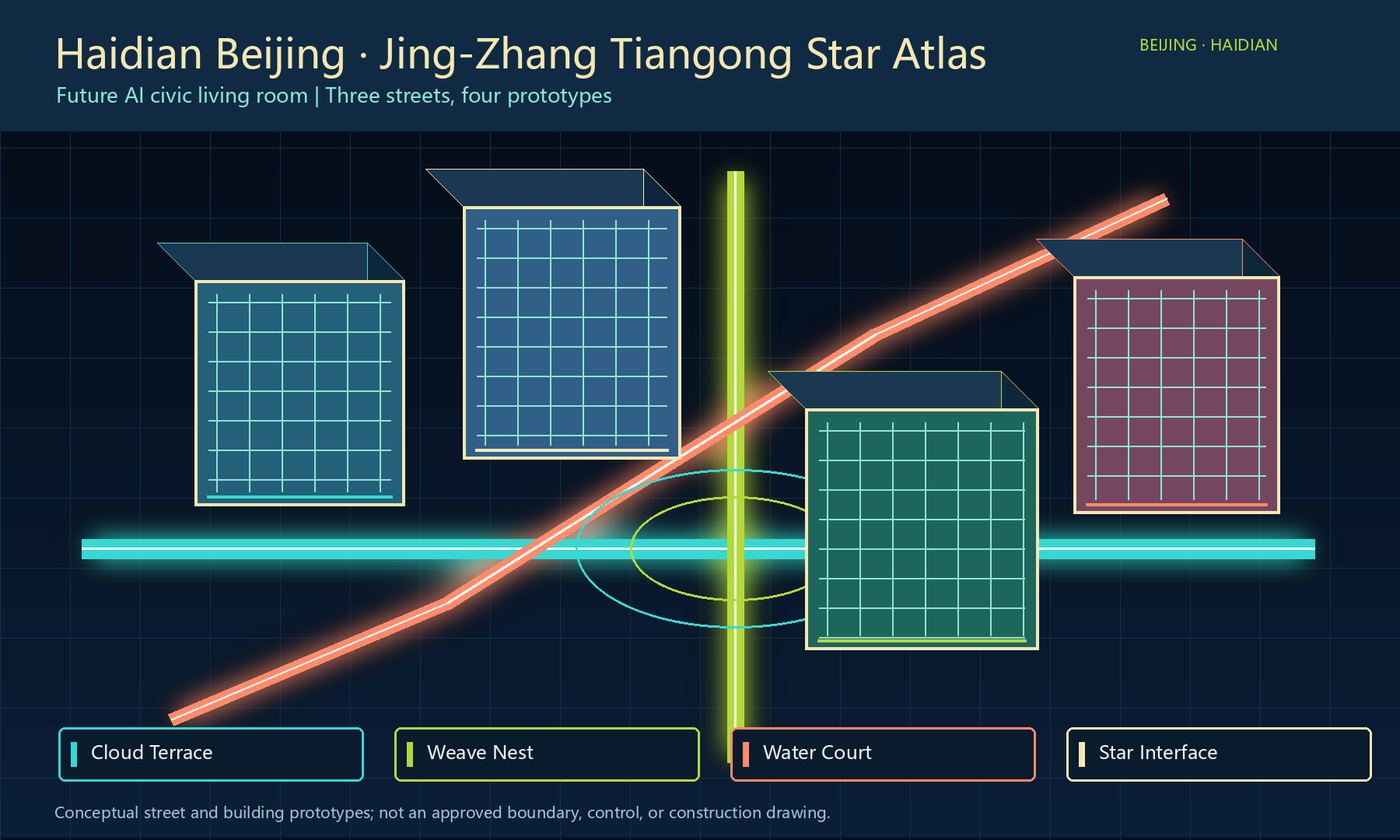
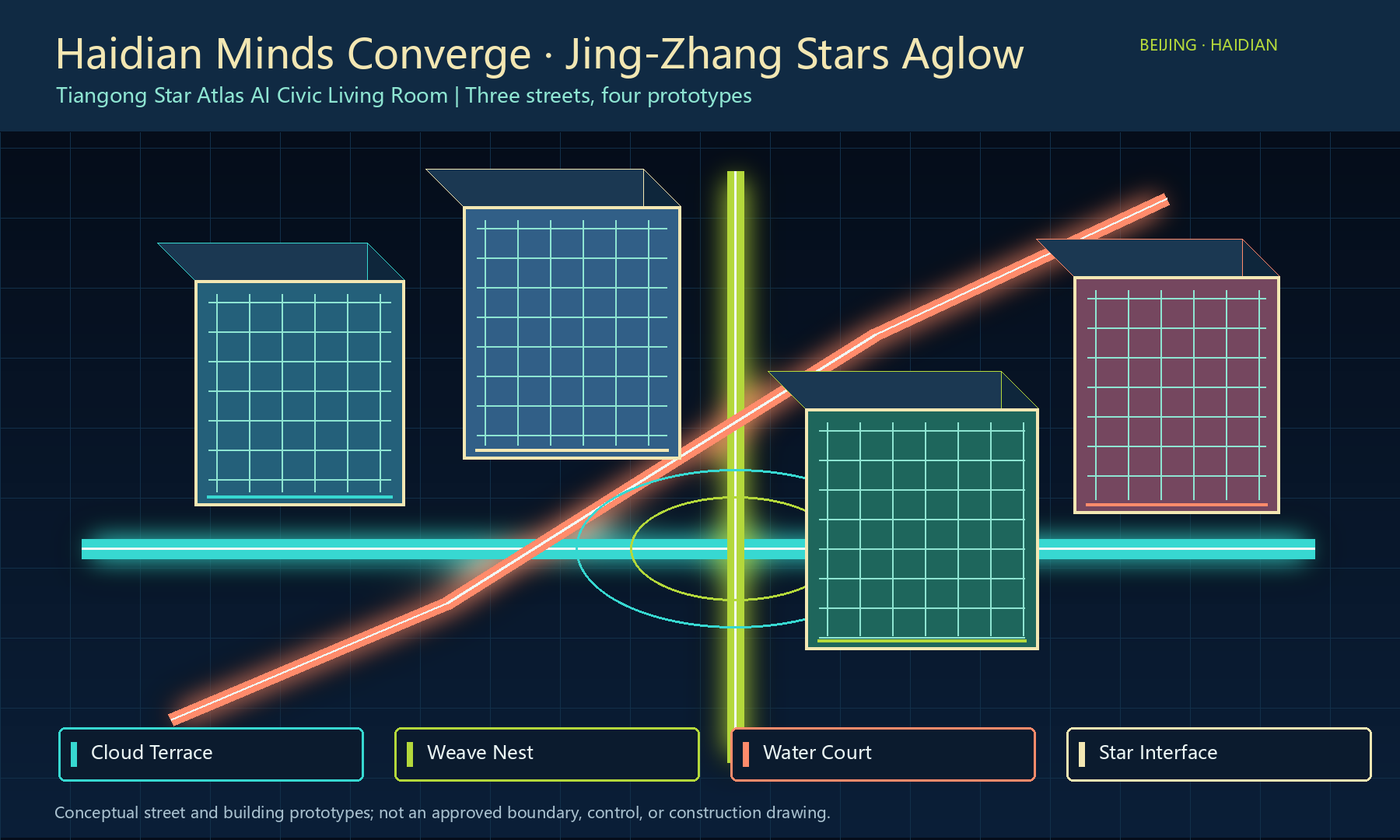
Refine proposal title and presentation

Changed region(s): [[0.0311, 0.0306, 0.7467, 0.1222]]

diff --git a/submissions/lixb123/jingzhang-ai-nexus/report/proposal.html b/submissions/lixb123/jingzhang-ai-nexus/report/proposal.html
@@ -3,7 +3,7 @@
 <head>
 <meta charset="utf-8">
 <meta name="viewport" content="width=device-width, initial-scale=1">
-<title>北京海淀·京张天工星图：未来 AI 城市客厅 - proposal report</title>
+<title>海淀智汇·京张星耀：天工星图 AI 城市客厅 - proposal report</title>
 <style>
 :root {
   --ink: #172033;
@@ -111,11 +111,11 @@ code {
 <body>
 <main>
 <section class="hero">
-<h1>北京海淀·京张天工星图：未来 AI 城市客厅</h1>
+<h1>海淀智汇·京张星耀：天工星图 AI 城市客厅</h1>
 <p class="summary">以北京海淀的科创气质为底色，借观星、织网、治水的空间智慧，串联三处创新核心：让 AI 导览可理解、社区协作可参与、蓝绿基础设施可感知。</p>
 <p class="translation-link"><a href="proposal.en.html">Read in English</a></p>
 </section>
-<h1>北京海淀·京张天工星图：未来 AI 城市客厅</h1>
+<h1>海淀智汇·京张星耀：天工星图 AI 城市客厅</h1>
 <h2>设计依据与资料清单</h2>
 <p>本方案以公开征集任务书、场地包和面向智能体任务书为依据，提出可供专业团队深化的空间与运营参考方案。<sup class="evidence evidence-source" data-evidence-kind="source" data-evidence-value="OFFICIAL-ANNOUNCEMENT" title="来源：OFFICIAL-ANNOUNCEMENT">来源</sup> <sup class="evidence evidence-source" data-evidence-kind="source" data-evidence-value="AGENT-TASKBOOK" title="来源：AGENT-TASKBOOK">来源</sup> 暂未取得精确官方 GIS/CAD 边界、控规条件、权属、现状建筑和市政容量，故不提出法定容积率、建筑高度、拆改留结论或工程可行性承诺；全部空间要素均为暂定边界内的概念表达。<sup class="evidence evidence-standard" data-evidence-kind="standard" data-evidence-value="MOHURD-CONTROL-DETAILED-PLANNING" title="标准：MOHURD-CONTROL-DETAILED-PLANNING">标准</sup></p>
 <figure class="proposal-figure"><img src="../assets/figures/site-overview.png" alt="总体概念与证据链"><figcaption>总体概念与证据链</figcaption></figure>
@@ -124,12 +124,12 @@ code {
 <p>统筹研究范围按公告 $43.6\,\mathrm{km^2}$ 组织产业协作和未来城市议题；总体设计范围按约 $11.4\,\mathrm{km^2}$ 组织三廊网络；重点区域以众智园、北京 AI 原点社区和大钟寺三处暂定片区开展可深化的场景、公共空间和运营研究。<sup class="evidence evidence-metric" data-evidence-kind="metric" data-evidence-value="site_area_sqm" title="指标：site_area_sqm">指标</sup> <sup class="evidence evidence-data" data-evidence-kind="data" data-evidence-value="geometry/site_boundary.geojson#SITE-001" title="空间数据：geometry/site_boundary.geojson#SITE-001">空间数据</sup> 当前暂定多边形仅用于展示和临时自检；获得正式边界后，应重算用地、绿地、公共空间和连通性指标。</p>
 <figure class="proposal-figure"><img src="../assets/figures/land-use-structure.png" alt="三层范围与用地结构"><figcaption>三层范围与用地结构</figcaption></figure>
 <h2>统筹研究范围产业与未来城市研究</h2>
-<p>“北京海淀·京张天工星图 / Haidian Beijing: Jing-Zhang Tiangong Star Atlas”以海淀的科创教育、开放研究和城市生活为当代底色，把中国传统的空间智慧转译为一座容易阅读、容易参与的未来 AI 城市客厅：古人<strong>仰观天象</strong>以辨方向，今天的<strong>天问知识廊</strong>便以可解释导览、京张记忆和开放研究帮助人们读懂城市；织机以经纬成布，今天的<strong>女娲织网廊</strong>便以公共长桌、可信数据和人工复核把居民、研究者与服务人员连接起来；治水讲求顺势蓄泄，今天的<strong>应龙水脉廊</strong>便以雨洪花园、微气候提示和慢行空间回应日常风雨。三廊连接众智园研发加速、AI 原点社区协作孵化和大钟寺产业体验三芯。神话名称只作为当代设计的文化隐喻，不代表宗教表达、历史事实重构或已批准项目。<sup class="evidence evidence-source" data-evidence-kind="source" data-evidence-value="AGENT-TASKBOOK" title="来源：AGENT-TASKBOOK">来源</sup></p>
+<p>“海淀智汇·京张星耀：天工星图 AI 城市客厅 / Haidian Minds Converge · Jing-Zhang Stars Aglow: Tiangong Star Atlas AI Civic Living Room”以海淀的科创教育、开放研究和城市生活为当代底色，把中国传统的空间智慧转译为一座容易阅读、容易参与的未来 AI 城市客厅：古人<strong>仰观天象</strong>以辨方向，今天的<strong>天问知识廊</strong>便以可解释导览、京张记忆和开放研究帮助人们读懂城市；织机以经纬成布，今天的<strong>女娲织网廊</strong>便以公共长桌、可信数据和人工复核把居民、研究者与服务人员连接起来；治水讲求顺势蓄泄，今天的<strong>应龙水脉廊</strong>便以雨洪花园、微气候提示和慢行空间回应日常风雨。三廊连接众智园研发加速、AI 原点社区协作孵化和大钟寺产业体验三芯。神话名称只作为当代设计的文化隐喻，不代表宗教表达、历史事实重构或已批准项目；星图坐标、织网节点和水脉轨迹可成为导视、活动与数字界面的共同语言。<sup class="evidence evidence-source" data-evidence-kind="source" data-evidence-value="AGENT-TASKBOOK" title="来源：AGENT-TASKBOOK">来源</sup></p>
 <p>全球案例采用可迁移机制而非项目复制：MIT Kendall Square 的产学界面、Station F 的创业服务、加拿大 Vector Institute 的开放研究网络、英国 Alan Turing Institute 的跨学科协作、Barcelona Supercomputing Center 的公共科学传播、首尔数字媒体城的场景集成。可转化的共同原则是：步行可达的共享空间、可预约的试验接口、公共可理解的展示和有人工复核的数据治理。</p>
 <p>五项功能在空间上形成闭环：众智园配置“研发-测试-转化”界面，AI 原点承接人才、社区和治理对话，大钟寺承接产业服务与面向公众的体验；中关村科技服务翼连接资本、法务、算力和国际合作，小月河场景赋能翼把生活服务、慢行与生态体验作为开放试验场。<sup class="evidence evidence-depth" data-evidence-kind="depth" data-evidence-value="overall_spatial_structure" title="深度：overall_spatial_structure">深度</sup></p>
 <h2>总体设计范围城市更新与控规深度城市设计</h2>
-<p>总体结构为“三廊三芯、两翼一环”的天工星图，并以“三街”把未来体验落到每天可走、可坐、可停的地面。<strong>天问星轨智行街</strong>借“循星辨位”的想象，把低速接驳、步骑、预约服务路缘和低眩光导向组织成一条看得懂的共享街。<strong>女娲织网共生街</strong>借“经纬相连”的秩序，把可渗透树池、可拆装社区长桌、无障碍微出行与安静优先交叉口编织为可日夜切换的生活界面。<strong>应龙水镜慢行环</strong>借“因水成景”的智慧，以浅水花园、遮荫停留构件和可关闭水位提示连接三芯，让雨水、树荫与步行成为可感知的城市技术。它们均为概念中心线和运营原型，具体断面、接驳、排水、停车与设备位置须由交通、市政、无障碍和消防专业团队以正式资料复核。<sup class="evidence evidence-data" data-evidence-kind="data" data-evidence-value="geometry/roads.geojson#ROAD-001" title="空间数据：geometry/roads.geojson#ROAD-001">空间数据</sup> <sup class="evidence evidence-data" data-evidence-kind="data" data-evidence-value="geometry/roads.geojson#ROAD-002" title="空间数据：geometry/roads.geojson#ROAD-002">空间数据</sup> <sup class="evidence evidence-data" data-evidence-kind="data" data-evidence-value="geometry/roads.geojson#ROAD-003" title="空间数据：geometry/roads.geojson#ROAD-003">空间数据</sup> <sup class="evidence evidence-standard" data-evidence-kind="standard" data-evidence-value="MOHURD-URBAN-DESIGN-MEASURES" title="标准：MOHURD-URBAN-DESIGN-MEASURES">标准</sup></p>
-<p>暂定用地以研发创新、产业服务、公园开敞、社区服务与市政保障的混合框架表达，而非控规调整建议。建筑图层升级为四类可替换原型：<strong>天问云台</strong>把研发层、模型评测与测试展廊叠合；<strong>女娲织巢</strong>提供共居创作、修补工坊和共享庭院；<strong>应龙水庭</strong>以架空公共层、雨水花园庭院和深檐遮阳回应热雨环境；<strong>星图界面</strong>把无障碍接驳、公共服务与可变展陈纳入多孔街角。退台、连桥、透光表皮、垂直绿化和可维护导视均只是概念构件，不主张高度、容积率、套数、拆建或权属结论。<sup class="evidence evidence-data" data-evidence-kind="data" data-evidence-value="geometry/buildings.geojson#BLDG-001" title="空间数据：geometry/buildings.geojson#BLDG-001">空间数据</sup> <sup class="evidence evidence-data" data-evidence-kind="data" data-evidence-value="geometry/buildings.geojson#BLDG-002" title="空间数据：geometry/buildings.geojson#BLDG-002">空间数据</sup> <sup class="evidence evidence-data" data-evidence-kind="data" data-evidence-value="geometry/buildings.geojson#BLDG-003" title="空间数据：geometry/buildings.geojson#BLDG-003">空间数据</sup> <sup class="evidence evidence-data" data-evidence-kind="data" data-evidence-value="geometry/buildings.geojson#BLDG-004" title="空间数据：geometry/buildings.geojson#BLDG-004">空间数据</sup></p>
+<p>总体结构为“三廊三芯、两翼一环”的天工星图，并以“三街”把未来体验落到每天可走、可坐、可停的地面。<strong>天问星轨智行街</strong>借“循星辨位”的想象，把低速接驳、步骑、预约服务路缘和低眩光导向组织成一条看得懂的共享街。<sup class="evidence evidence-data" data-evidence-kind="data" data-evidence-value="geometry/roads.geojson#ROAD-001" title="空间数据：geometry/roads.geojson#ROAD-001">空间数据</sup> <strong>女娲织网共生街</strong>借“经纬相连”的秩序，把可渗透树池、可拆装社区长桌、无障碍微出行与安静优先交叉口编织为可日夜切换的生活界面。<sup class="evidence evidence-data" data-evidence-kind="data" data-evidence-value="geometry/roads.geojson#ROAD-002" title="空间数据：geometry/roads.geojson#ROAD-002">空间数据</sup> <strong>应龙水镜慢行环</strong>借“因水成景”的智慧，以浅水花园、遮荫停留构件和可关闭水位提示连接三芯，让雨水、树荫与步行成为可感知的城市技术。<sup class="evidence evidence-data" data-evidence-kind="data" data-evidence-value="geometry/roads.geojson#ROAD-003" title="空间数据：geometry/roads.geojson#ROAD-003">空间数据</sup> 它们均为概念中心线和运营原型，具体断面、接驳、排水、停车与设备位置须由交通、市政、无障碍和消防专业团队以正式资料复核。<sup class="evidence evidence-standard" data-evidence-kind="standard" data-evidence-value="MOHURD-URBAN-DESIGN-MEASURES" title="标准：MOHURD-URBAN-DESIGN-MEASURES">标准</sup></p>
+<p>暂定用地以研发创新、产业服务、公园开敞、社区服务与市政保障的混合框架表达，而非控规调整建议。四类建筑原型把传统台地、院落与檐下空间经验，转译为面向未来的可维护界面：<strong>天问云台</strong>以层层退台串联研发层、模型评测和对公众可读的测试展廊。<sup class="evidence evidence-data" data-evidence-kind="data" data-evidence-value="geometry/buildings.geojson#BLDG-001" title="空间数据：geometry/buildings.geojson#BLDG-001">空间数据</sup> <strong>女娲织巢</strong>以共享庭院串联共居创作、修补工坊与邻里交流。<sup class="evidence evidence-data" data-evidence-kind="data" data-evidence-value="geometry/buildings.geojson#BLDG-002" title="空间数据：geometry/buildings.geojson#BLDG-002">空间数据</sup> <strong>应龙水庭</strong>以架空公共层、雨水花园庭院和深檐遮阳回应热雨环境。<sup class="evidence evidence-data" data-evidence-kind="data" data-evidence-value="geometry/buildings.geojson#BLDG-003" title="空间数据：geometry/buildings.geojson#BLDG-003">空间数据</sup> <strong>星图界面</strong>把无障碍接驳、公共服务与可变展陈纳入通透的街角雨棚。<sup class="evidence evidence-data" data-evidence-kind="data" data-evidence-value="geometry/buildings.geojson#BLDG-004" title="空间数据：geometry/buildings.geojson#BLDG-004">空间数据</sup> 退台、连桥、透光表皮、垂直绿化和可维护导视均只是概念构件，不主张高度、容积率、套数、拆建或权属结论。<sup class="evidence evidence-metric" data-evidence-kind="metric" data-evidence-value="building_footprint_area_sqm" title="指标：building_footprint_area_sqm">指标</sup></p>
 <h2>重点区域详细设计</h2>
 <p><strong>众智园 AI 自主创新加速区</strong>建议成为“天问实验星港”：以可预约的模型评测、边端协同演示、开发者工作台和安静的知识花园构成面向未来研究的共享底座；夜间仅使用低亮度、可关闭的信息界面，让研究成果以可解释的“星图”而非广告化屏幕被阅读。建筑更新只提出可复核的适配方向，优先用公共界面连接研发与人才服务。</p>
 <p><strong>北京 AI 原点社区</strong>建议成为“女娲织网客厅”：以小尺度公共桌、社区问题工作坊、AI 素养展和可撤展的协作空间承接居民、学生、研究者与治理人员。“织网”表达公共关系的修补与互助，不把居民数据变成装饰或交易品；涉及健康、教育或治理数据的场景一律采取最小必要数据、明示同意和人工复核。</p>
@@ -147,7 +147,7 @@ code {
 <figure class="proposal-figure"><img src="../assets/figures/mobility-bluegreen.png" alt="慢行、蓝绿与公共空间网络"><figcaption>慢行、蓝绿与公共空间网络</figcaption></figure>
 <p>本节的空间图层、指标和图件构成相互核对的概念证据链：图层说明设计意图和暂定位置，指标说明由图层导出的可复算量，图件把这些关系翻译为可读的评审界面。由于官方边界、控规条件、现状建筑、道路红线、生态文保和市政资料尚未提供，方案不把示意表达升级为控制结论；收到具有明确来源、坐标和许可的正式资料后，应由专业团队重算面积、审查冲突、更新场景边界，并同步修订叙事、矩阵与图纸。这一处理保证提案既可讨论，也不以虚假的精确性替代专业判断。<sup class="evidence evidence-source" data-evidence-kind="source" data-evidence-value="SITE-PACKAGE" title="来源：SITE-PACKAGE">来源</sup> <sup class="evidence evidence-data" data-evidence-kind="data" data-evidence-value="geometry/site_boundary.geojson#SITE-001" title="空间数据：geometry/site_boundary.geojson#SITE-001">空间数据</sup> <sup class="evidence evidence-metric" data-evidence-kind="metric" data-evidence-value="site_area_sqm" title="指标：site_area_sqm">指标</sup></p>
 <h2>蓝绿空间、公共空间与城市风貌</h2>
-<p>京张记忆廊以“铁路时间线+开放解释器”组织文化叙事，天问知识廊可将经审校的历史线索与科技知识投射为低亮度、可关闭的星图导览；绿廊提供雨洪友好、日常可停留与活动可切换的公共界面。三个 AI 朝圣节点升级为：<strong>天工云台</strong>（年度贡献荣誉与可解释 AI 展）、<strong>女娲织网长桌</strong>（公共问题协作、授权说明与成果回看）、<strong>应龙水脉站台</strong>（京张文化、多语导览与城市气候体验）。它们均为公共艺术和空间运营的概念组件，不代表已批准建设，也不使用未授权神话人物形象或外部素材。<sup class="evidence evidence-data" data-evidence-kind="data" data-evidence-value="geometry/public_space.geojson#PUBLIC-001" title="空间数据：geometry/public_space.geojson#PUBLIC-001">空间数据</sup></p>
+<p>京张记忆廊以“铁路时间线+开放解释器”讲述从京张铁路到 AI 创新的城市接力；天问知识廊把经审校的历史线索与科技知识化为低亮度、可关闭的星图导览；绿廊让雨洪调蓄、树荫停留与公共活动在同一界面中自然切换。三个公共节点由传统意象引出清晰的当代用途：<strong>天工云台</strong>用于可解释 AI 展与年度贡献展示，<strong>女娲织网长桌</strong>用于公共问题协作、授权说明与成果回看，<strong>应龙水脉站台</strong>用于京张文化、多语导览与城市气候体验。它们均为公共艺术和空间运营的概念组件，不代表已批准建设，也不使用未授权神话人物形象或外部素材。<sup class="evidence evidence-data" data-evidence-kind="data" data-evidence-value="geometry/public_space.geojson#PUBLIC-001" title="空间数据：geometry/public_space.geojson#PUBLIC-001">空间数据</sup></p>
 <p>本节的空间图层、指标和图件构成相互核对的概念证据链：图层说明设计意图和暂定位置，指标说明由图层导出的可复算量，图件把这些关系翻译为可读的评审界面。由于官方边界、控规条件、现状建筑、道路红线、生态文保和市政资料尚未提供，方案不把示意表达升级为控制结论；收到具有明确来源、坐标和许可的正式资料后，应由专业团队重算面积、审查冲突、更新场景边界，并同步修订叙事、矩阵与图纸。这一处理保证提案既可讨论，也不以虚假的精确性替代专业判断。<sup class="evidence evidence-source" data-evidence-kind="source" data-evidence-value="SITE-PACKAGE" title="来源：SITE-PACKAGE">来源</sup> <sup class="evidence evidence-data" data-evidence-kind="data" data-evidence-value="geometry/site_boundary.geojson#SITE-001" title="空间数据：geometry/site_boundary.geojson#SITE-001">空间数据</sup> <sup class="evidence evidence-metric" data-evidence-kind="metric" data-evidence-value="site_area_sqm" title="指标：site_area_sqm">指标</sup></p>
 <h2>更新项目清单、实施政策与分期计划</h2>
 <p>近期建议开展边界与现状资料核验、慢行断点审计、公共界面原型和三类测试场的伦理评审；中期建议由专业团队深化三芯公共空间与服务接口；远期建议形成年度“智脉周”、开发者驻留、国际问题发布和公众体验路线。运营应设置开发者社区、居民代表、专业顾问与数据治理四方共议机制，所有活动、资金、招商和政策均为建议，不能视为确定承诺。<sup class="evidence evidence-data" data-evidence-kind="data" data-evidence-value="geometry/phasing.geojson#PHASE-001" title="空间数据：geometry/phasing.geojson#PHASE-001">空间数据</sup></p>

diff --git a/submissions/lixb123/jingzhang-ai-nexus/report/proposal.en.html b/submissions/lixb123/jingzhang-ai-nexus/report/proposal.en.html
@@ -3,7 +3,7 @@
 <head>
 <meta charset="utf-8">
 <meta name="viewport" content="width=device-width, initial-scale=1">
-<title>Haidian Beijing: Jing-Zhang Tiangong Star Atlas - proposal report</title>
+<title>Haidian Minds Converge · Jing-Zhang Stars Aglow: Tiangong Star Atlas AI Civic Living Room - proposal report</title>
 <style>
 :root {
   --ink: #172033;
@@ -111,11 +111,11 @@ code {
 <body>
 <main>
 <section class="hero">
-<h1>Haidian Beijing: Jing-Zhang Tiangong Star Atlas</h1>
-<p class="summary">Rooted in Beijing Haidian's culture of innovation and research, traditional Chinese wisdom links three innovation cores through legible AI guidance, participatory civic collaboration, and climate-aware infrastructure.</p>
+<h1>Haidian Minds Converge · Jing-Zhang Stars Aglow: Tiangong Star Atlas AI Civic Living Room</h1>
+<p class="summary">Rooted in Beijing Haidian&#x27;s culture of innovation and research, traditional Chinese wisdom of reading the stars, weaving networks, and living with water links three innovation cores through legible AI guidance, participatory civic collaboration, and climate-aware infrastructure.</p>
 <p class="translation-link"><a href="proposal.html">阅读中文版本</a></p>
 </section>
-<h1>Haidian Beijing: Jing-Zhang Tiangong Star Atlas</h1>
+<h1>Haidian Minds Converge · Jing-Zhang Stars Aglow: Tiangong Star Atlas AI Civic Living Room</h1>
 <h2>Design Basis and Evidence</h2>
 <p>This open co-creation proposal uses the public call, site package, and agent taskbook. Exact official GIS/CAD boundaries, regulatory controls, ownership, existing-building records, and utility capacity are unavailable; every spatial element is therefore a conceptual suggestion within provisional geometry, not a statutory control or construction commitment. <sup class="evidence evidence-source" data-evidence-kind="source" data-evidence-value="OFFICIAL-ANNOUNCEMENT" title="来源：OFFICIAL-ANNOUNCEMENT">来源</sup> <sup class="evidence evidence-standard" data-evidence-kind="standard" data-evidence-value="MOHURD-CONTROL-DETAILED-PLANNING" title="标准：MOHURD-CONTROL-DETAILED-PLANNING">标准</sup></p>
 <figure class="proposal-figure"><img src="../assets/figures/site-overview.en.png" alt="Concept and evidence chain"><figcaption>Concept and evidence chain</figcaption></figure>
@@ -123,10 +123,10 @@ code {
 <p>The 43.6 km2 research scope frames regional innovation; the approximately 11.4 km2 overall design scope organizes the corridor network; and three provisional key areas host focused research. Official polygons must replace provisional ones before precision-sensitive metrics are used. <sup class="evidence evidence-metric" data-evidence-kind="metric" data-evidence-value="site_area_sqm" title="指标：site_area_sqm">指标</sup> <sup class="evidence evidence-data" data-evidence-kind="data" data-evidence-value="geometry/site_boundary.geojson#SITE-001" title="空间数据：geometry/site_boundary.geojson#SITE-001">空间数据</sup></p>
 <figure class="proposal-figure"><img src="../assets/figures/land-use-structure.en.png" alt="Scope and land-use structure"><figcaption>Scope and land-use structure</figcaption></figure>
 <h2>Innovation and Future City Strategy</h2>
-<p>“Haidian Beijing: Jing-Zhang Tiangong Star Atlas” draws on Haidian's culture of innovation, research, and everyday urban life to translate familiar Chinese spatial wisdom into a future AI civic living room that is easy to read and join. Reading the stars becomes the Tianwen Knowledge Corridor, where explainable wayfinding, Jing-Zhang memory, and open research help people orient themselves. Weaving warp and weft becomes the Nuwa Weaving Corridor, where civic tables, trustworthy data, and human review connect residents, researchers, and service staff. Living with water becomes the Yinglong Water-Vein Corridor, where rain gardens, microclimate notices, and slow mobility respond to daily weather. Together they connect the Zhongzhiyuan acceleration, AI Origin collaboration, and Dazhongsi industry-experience cores. These names are contemporary cultural metaphors, not religious claims, historical reconstruction, or approved projects. <sup class="evidence evidence-source" data-evidence-kind="source" data-evidence-value="AGENT-TASKBOOK" title="来源：AGENT-TASKBOOK">来源</sup></p>
+<p>“Haidian Minds Converge · Jing-Zhang Stars Aglow: Tiangong Star Atlas AI Civic Living Room” draws on Haidian&#x27;s culture of innovation, research, and everyday urban life to translate familiar Chinese spatial wisdom into a future AI civic living room that is easy to read and join. Reading the stars becomes the Tianwen Knowledge Corridor, where explainable wayfinding, Jing-Zhang memory, and open research help people orient themselves. Weaving warp and weft becomes the Nuwa Weaving Corridor, where civic tables, trustworthy data, and human review connect residents, researchers, and service staff. Living with water becomes the Yinglong Water-Vein Corridor, where rain gardens, microclimate notices, and slow mobility respond to daily weather. Together they connect the Zhongzhiyuan acceleration, AI Origin collaboration, and Dazhongsi industry-experience cores. These names are contemporary cultural metaphors, not religious claims, historical reconstruction, or approved projects. <sup class="evidence evidence-source" data-evidence-kind="source" data-evidence-value="AGENT-TASKBOOK" title="来源：AGENT-TASKBOOK">来源</sup></p>
 <h2>Overall Urban Design</h2>
 <p>The Tiangong Star Atlas is organized through “three corridors, three cores, two wings, and one loop,” with three future-street prototypes that turn the idea into everyday ground. Tianwen Star-Rail Street draws on the image of navigating by stars: low-speed shuttles, walking, cycling, bookable curb service, and low-glare guides form one legible shared street. Nuwa Weave Street draws on warp-and-weft order: permeable tree wells, demountable civic tables, accessible micro-mobility, and quiet-priority crossings form a flexible civic room. Yinglong Water-Mirror Loop draws on living with water: shallow rain gardens, shade structures, and switchable water-level notices make climate infrastructure tangible. These are conceptual centerlines and operational prototypes, not approved street sections or engineering commitments. <sup class="evidence evidence-data" data-evidence-kind="data" data-evidence-value="geometry/roads.geojson#ROAD-001" title="空间数据：geometry/roads.geojson#ROAD-001">空间数据</sup> <sup class="evidence evidence-data" data-evidence-kind="data" data-evidence-value="geometry/roads.geojson#ROAD-002" title="空间数据：geometry/roads.geojson#ROAD-002">空间数据</sup> <sup class="evidence evidence-data" data-evidence-kind="data" data-evidence-value="geometry/roads.geojson#ROAD-003" title="空间数据：geometry/roads.geojson#ROAD-003">空间数据</sup></p>
-<p>Four replaceable building prototypes give the district a future-facing but auditable architectural language: Tianwen Cloud Terrace for research and test galleries; Nuwa Weave Nest for live-work, maker, and shared-court spaces; Yinglong Water Court for climate-adaptive living; and Star-Atlas Interface for mobility, civic services, and exhibitions. Terraces, bridges, translucent shading, vertical planting, and maintainable wayfinding remain conceptual components, not claims about approved height, floor area, dwellings, ownership, or demolition. <sup class="evidence evidence-data" data-evidence-kind="data" data-evidence-value="geometry/buildings.geojson#BLDG-001" title="空间数据：geometry/buildings.geojson#BLDG-001">空间数据</sup> <sup class="evidence evidence-data" data-evidence-kind="data" data-evidence-value="geometry/buildings.geojson#BLDG-002" title="空间数据：geometry/buildings.geojson#BLDG-002">空间数据</sup> <sup class="evidence evidence-data" data-evidence-kind="data" data-evidence-value="geometry/buildings.geojson#BLDG-003" title="空间数据：geometry/buildings.geojson#BLDG-003">空间数据</sup> <sup class="evidence evidence-data" data-evidence-kind="data" data-evidence-value="geometry/buildings.geojson#BLDG-004" title="空间数据：geometry/buildings.geojson#BLDG-004">空间数据</sup></p>
+<p>Four replaceable building prototypes translate terraces, courtyards, and deep eaves into future-facing but auditable civic interfaces. Tianwen Cloud Terrace layers research, model evaluation, and a publicly readable test gallery. Nuwa Weave Nest uses a shared court for live-work studios, repair spaces, and neighbor exchange. Yinglong Water Court combines a lifted public level, rain-garden court, and deep shade for heat and rain. Star-Atlas Interface places accessible transfer, civic service, and changing exhibitions beneath a porous corner canopy. Terraces, bridges, translucent shading, vertical planting, and maintainable wayfinding remain conceptual components, not claims about approved height, floor area, dwellings, ownership, or demolition. <sup class="evidence evidence-data" data-evidence-kind="data" data-evidence-value="geometry/buildings.geojson#BLDG-001" title="空间数据：geometry/buildings.geojson#BLDG-001">空间数据</sup> <sup class="evidence evidence-data" data-evidence-kind="data" data-evidence-value="geometry/buildings.geojson#BLDG-002" title="空间数据：geometry/buildings.geojson#BLDG-002">空间数据</sup> <sup class="evidence evidence-data" data-evidence-kind="data" data-evidence-value="geometry/buildings.geojson#BLDG-003" title="空间数据：geometry/buildings.geojson#BLDG-003">空间数据</sup> <sup class="evidence evidence-data" data-evidence-kind="data" data-evidence-value="geometry/buildings.geojson#BLDG-004" title="空间数据：geometry/buildings.geojson#BLDG-004">空间数据</sup></p>
 <h2>Key Areas</h2>
 <p>Zhongzhiyuan is proposed as a shared full-stack test base; the AI Origin Community as a human-AI civic living room; and Dazhongsi as an accessible industry showcase. All three areas need professional confirmation of parcels, buildings, heritage, traffic, and engineering conditions. <sup class="evidence evidence-data" data-evidence-kind="data" data-evidence-value="geometry/key_areas.geojson#PROV-KEY-001" title="空间数据：geometry/key_areas.geojson#PROV-KEY-001">空间数据</sup></p>
 <figure class="proposal-figure"><img src="../assets/figures/key-areas.en.png" alt="Key areas and landmark nodes"><figcaption>Key areas and landmark nodes</figcaption></figure>
@@ -138,7 +138,7 @@ code {
 <p>The three-street system links stations, scenarios, parks, and communities with explicit priority for walking, cycling, wheelchair travel, low-speed booked shuttles, and maintenance access. Its curb zones can switch among pickup, logistics, rain-garden pause, and event modes. Utility, energy, and computing capacity are maintainable-interface and aggregate-monitoring suggestions only, subject to transport, drainage, accessibility, fire-safety, and utility review. <sup class="evidence evidence-depth" data-evidence-kind="depth" data-evidence-value="traffic_rail_slow_parking" title="深度：traffic_rail_slow_parking">深度</sup></p>
 <figure class="proposal-figure"><img src="../assets/figures/mobility-bluegreen.en.png" alt="Mobility, blue-green and public-space network"><figcaption>Mobility, blue-green and public-space network</figcaption></figure>
 <h2>Public Realm, Culture, and Character</h2>
-<p>The heritage corridor is a railway time-line and open interpreter. Three conceptual AI pilgrimage nodes are the Tiangong Cloud Terrace for explainable-AI exhibitions, the Nuwa Weaving Table for civic consent and deliberation, and the Yinglong Water-Vein Platform for multilingual heritage and climate experience. They use mythology as a design-language metaphor, support annual contribution recognition and civic co-creation, and do not claim approval or use external copyrighted imagery. <sup class="evidence evidence-data" data-evidence-kind="data" data-evidence-value="geometry/public_space.geojson#PUBLIC-001" title="空间数据：geometry/public_space.geojson#PUBLIC-001">空间数据</sup></p>
+<p>The heritage corridor tells a relay of urban innovation from the Jing-Zhang Railway to AI through a railway time-line and open interpreter. Tianwen turns verified history and technology into low-glare, switchable star-atlas wayfinding, while the green corridor lets rain storage, shade, and public activity share one everyday landscape. Three conceptual public nodes give the cultural imagery clear contemporary roles: Tiangong Cloud Terrace for explainable-AI exhibitions, Nuwa Weaving Table for civic consent and deliberation, and Yinglong Water-Vein Platform for multilingual heritage and climate experience. They are conceptual public-art and operational components, not approved works. <sup class="evidence evidence-data" data-evidence-kind="data" data-evidence-value="geometry/public_space.geojson#PUBLIC-001" title="空间数据：geometry/public_space.geojson#PUBLIC-001">空间数据</sup></p>
 <h2>Phasing and Long-Term Operations</h2>
 <p>Near-term work verifies data, audits walking gaps, prototypes public interfaces, and reviews ethics for three test settings. Medium-term work deepens public-space and service interfaces; long-term work proposes an annual Nexus Week, developer residencies, international challenge calls, and a four-party governance forum. These are suggestions, not confirmed events, funding, policy, or investment. <sup class="evidence evidence-data" data-evidence-kind="data" data-evidence-value="geometry/phasing.geojson#PHASE-001" title="空间数据：geometry/phasing.geojson#PHASE-001">空间数据</sup></p>
 <h2>Metrics and Compliance</h2>

diff --git a/submissions/lixb123/jingzhang-ai-nexus/visual/index.en.html b/submissions/lixb123/jingzhang-ai-nexus/visual/index.en.html
@@ -1,3 +1,3 @@
-<!doctype html><html lang="en"><meta charset="utf-8"><meta name="viewport" content="width=device-width, initial-scale=1"><title>Haidian Beijing: Jing-Zhang Tiangong Star Atlas</title><style>
+<!doctype html><html lang="en"><meta charset="utf-8"><meta name="viewport" content="width=device-width, initial-scale=1"><title>Haidian Minds Converge · Jing-Zhang Stars Aglow: Tiangong Star Atlas Prototypes</title><style>
 :root{--ink:#07111F;--panel:#0D2035;--grid:#17334A;--mint:#37D8D1;--lime:#B4D83B;--coral:#FF8B6B;--gold:#F3E7B3;--text:#EAF5F4;}*{box-sizing:border-box}body{margin:0;background:var(--ink);color:var(--text);font-family:Georgia,"Microsoft YaHei",serif}main{max-width:1180px;margin:auto;padding:34px 22px 64px;background-image:linear-gradient(var(--grid) 1px,transparent 1px),linear-gradient(90deg,var(--grid) 1px,transparent 1px);background-size:44px 44px}h1{margin:0;font-size:42px;color:var(--gold);line-height:1.2}h2{margin:0 0 10px;color:var(--mint);font-size:20px}.subtitle{margin:12px 0 0;color:#B9D6D8}.city{height:390px;margin-top:26px;position:relative;overflow:hidden;border:1px solid var(--mint);background:#091827}.street{position:absolute;transform-origin:left center;box-shadow:0 0 18px currentColor}.s1{left:8%;right:8%;top:62%;height:13px;background:var(--mint);color:var(--mint)}.s2{left:52%;top:10%;width:12px;height:78%;background:var(--lime);color:var(--lime)}.s3{left:13%;top:82%;width:78%;height:10px;background:var(--coral);color:var(--coral);transform:rotate(-21deg)}.building{position:absolute;width:112px;height:118px;border:2px solid var(--gold);background:repeating-linear-gradient(90deg,#24455e 0 14px,#2e5a70 14px 24px);box-shadow:18px 18px 0 #102A43,0 0 18px #315f87}.b1{left:18%;top:20%}.b2{left:36%;top:31%;height:145px}.b3{left:63%;top:44%;background:repeating-linear-gradient(90deg,#1a4a48 0 14px,#235a56 14px 24px)}.b4{right:13%;top:19%;background:repeating-linear-gradient(90deg,#634153 0 14px,#744b62 14px 24px)}.grid{display:grid;grid-template-columns:repeat(3,1fr);gap:14px;margin-top:18px}.band{border-top:3px solid var(--mint);padding:16px;background:rgba(13,32,53,.94);min-height:132px}.band:nth-child(2){border-color:var(--lime)}.band:nth-child(3){border-color:var(--coral)}.buildings{display:grid;grid-template-columns:repeat(4,1fr);gap:12px;margin-top:18px}.building-note{padding:14px;border:1px solid #2E5A70;background:#091827;min-height:98px}.metric{display:inline-block;margin:18px 12px 0 0;padding:9px 12px;border:1px solid var(--gold);color:var(--gold)}.review{display:grid;grid-template-columns:repeat(4,1fr);gap:8px;margin-top:20px}.review span{padding:9px;border-left:3px solid var(--lime);background:var(--panel);color:#B9D6D8}.note{margin-top:20px;color:#B9D6D8;line-height:1.7}@media(max-width:760px){h1{font-size:30px}.city{height:300px}.grid,.buildings,.review{grid-template-columns:1fr 1fr}.building{transform:scale(.72);transform-origin:top left}}
-</style><body><main><h1>Haidian Beijing: Jing-Zhang Tiangong Star Atlas</h1><p class="subtitle">All streets, buildings, wayfinding, and equipment are conceptual prototypes within provisional geometry and require specialist review.</p><section class="city"><span class="street s1"></span><span class="street s2"></span><span class="street s3"></span><span class="building b1"></span><span class="building b2"></span><span class="building b3"></span><span class="building b4"></span></section><section class="grid"><article class="band"><h2>Tianwen Star-Rail Street</h2><p>Drawing on navigation by stars, low-speed shuttles, active travel, and low-glare guides form one legible shared street.</p></article><article class="band"><h2>Nuwa Weave Street</h2><p>Drawing on warp-and-weft order, tree wells, civic tables, accessible micro-mobility, and quiet crossings serve the neighborhood together.</p></article><article class="band"><h2>Yinglong Water-Mirror Loop</h2><p>Drawing on living with water, rain gardens, shade, and water-level notices make climate technology visible and tangible.</p></article></section><section class="buildings"><article class="building-note"><h2>Tianwen Cloud Terrace</h2><p>Layered terraces connect research, model evaluation, and a publicly readable test gallery.</p></article><article class="building-note"><h2>Nuwa Weave Nest</h2><p>A shared court connects live-work studios, repair workshops, and neighbor exchange.</p></article><article class="building-note"><h2>Yinglong Water Court</h2><p>A lifted public level, rain court, and deep shade respond to heat, rain, and everyday pause.</p></article><article class="building-note"><h2>Star-Atlas Interface</h2><p>A porous corner canopy integrates accessible transfer, civic service, and changing exhibitions.</p></article></section><section><span class="metric" data-metric="site_area_sqm" data-value="11412825.386">11,412,825.386 sqm</span><span class="metric" data-metric="building_footprint_area_sqm" data-value="310807.186">310,807.186 sqm</span><span class="metric" data-metric="green_ratio" data-value="0.123423">12.3423%</span><span class="metric" data-metric="public_space_ratio" data-value="0.073281">7.3281%</span></section><section><h2>Review Index</h2><div class="review"><span>Overview map</span><span>Three-level scope</span><span>Key areas</span><span>Land use</span><span>Mobility</span><span>Blue-green public realm</span><span>Buildings</span><span>Renewal</span><span>AI scenarios</span><span>Core metrics</span><span>Task coverage</span><span>Self-check</span><span>Sources</span><span>Assumptions</span></div><p class="note">All streets, buildings, wayfinding, and equipment are conceptual prototypes within provisional geometry and require specialist review.</p></section></main></body></html>
+</style><body><main><h1>Haidian Minds Converge · Jing-Zhang Stars Aglow: Tiangong Star Atlas Prototypes</h1><p class="subtitle">All streets, buildings, wayfinding, and equipment are conceptual prototypes within provisional geometry and require specialist review.</p><section class="city"><span class="street s1"></span><span class="street s2"></span><span class="street s3"></span><span class="building b1"></span><span class="building b2"></span><span class="building b3"></span><span class="building b4"></span></section><section class="grid"><article class="band"><h2>Tianwen Star-Rail Street</h2><p>Drawing on navigation by stars, low-speed shuttles, active travel, and low-glare guides form one legible shared street.</p></article><article class="band"><h2>Nuwa Weave Street</h2><p>Drawing on warp-and-weft order, tree wells, civic tables, accessible micro-mobility, and quiet crossings serve the neighborhood together.</p></article><article class="band"><h2>Yinglong Water-Mirror Loop</h2><p>Drawing on living with water, rain gardens, shade, and water-level notices make climate technology visible and tangible.</p></article></section><section class="buildings"><article class="building-note"><h2>Tianwen Cloud Terrace</h2><p>Layered terraces connect research, model evaluation, and a publicly readable test gallery.</p></article><article class="building-note"><h2>Nuwa Weave Nest</h2><p>A shared court connects live-work studios, repair workshops, and neighbor exchange.</p></article><article class="building-note"><h2>Yinglong Water Court</h2><p>A lifted public level, rain court, and deep shade respond to heat, rain, and everyday pause.</p></article><article class="building-note"><h2>Star-Atlas Interface</h2><p>A porous corner canopy integrates accessible transfer, civic service, and changing exhibitions.</p></article></section><section><span class="metric" data-metric="site_area_sqm" data-value="11412825.386">11,412,825.386 sqm</span><span class="metric" data-metric="building_footprint_area_sqm" data-value="310807.186">310,807.186 sqm</span><span class="metric" data-metric="green_ratio" data-value="0.123423">12.3423%</span><span class="metric" data-metric="public_space_ratio" data-value="0.073281">7.3281%</span></section><section><h2>Review Index</h2><div class="review"><span>Overview map</span><span>Three-level scope</span><span>Key areas</span><span>Land use</span><span>Mobility</span><span>Blue-green public realm</span><span>Buildings</span><span>Renewal</span><span>AI scenarios</span><span>Core metrics</span><span>Task coverage</span><span>Self-check</span><span>Sources</span><span>Assumptions</span></div><p class="note">All streets, buildings, wayfinding, and equipment are conceptual prototypes within provisional geometry and require specialist review.</p></section></main></body></html>

diff --git a/submissions/lixb123/jingzhang-ai-nexus/visual/index.html b/submissions/lixb123/jingzhang-ai-nexus/visual/index.html
@@ -1,3 +1,3 @@
-<!doctype html><html lang="zh"><meta charset="utf-8"><meta name="viewport" content="width=device-width, initial-scale=1"><title>北京海淀·京张天工星图：未来街道与建筑原型</title><style>
+<!doctype html><html lang="zh"><meta charset="utf-8"><meta name="viewport" content="width=device-width, initial-scale=1"><title>海淀智汇·京张星耀：天工星图未来街道与建筑原型</title><style>
 :root{--ink:#07111F;--panel:#0D2035;--grid:#17334A;--mint:#37D8D1;--lime:#B4D83B;--coral:#FF8B6B;--gold:#F3E7B3;--text:#EAF5F4;}*{box-sizing:border-box}body{margin:0;background:var(--ink);color:var(--text);font-family:Georgia,"Microsoft YaHei",serif}main{max-width:1180px;margin:auto;padding:34px 22px 64px;background-image:linear-gradient(var(--grid) 1px,transparent 1px),linear-gradient(90deg,var(--grid) 1px,transparent 1px);background-size:44px 44px}h1{margin:0;font-size:42px;color:var(--gold);line-height:1.2}h2{margin:0 0 10px;color:var(--mint);font-size:20px}.subtitle{margin:12px 0 0;color:#B9D6D8}.city{height:390px;margin-top:26px;position:relative;overflow:hidden;border:1px solid var(--mint);background:#091827}.street{position:absolute;transform-origin:left center;box-shadow:0 0 18px currentColor}.s1{left:8%;right:8%;top:62%;height:13px;background:var(--mint);color:var(--mint)}.s2{left:52%;top:10%;width:12px;height:78%;background:var(--lime);color:var(--lime)}.s3{left:13%;top:82%;width:78%;height:10px;background:var(--coral);color:var(--coral);transform:rotate(-21deg)}.building{position:absolute;width:112px;height:118px;border:2px solid var(--gold);background:repeating-linear-gradient(90deg,#24455e 0 14px,#2e5a70 14px 24px);box-shadow:18px 18px 0 #102A43,0 0 18px #315f87}.b1{left:18%;top:20%}.b2{left:36%;top:31%;height:145px}.b3{left:63%;top:44%;background:repeating-linear-gradient(90deg,#1a4a48 0 14px,#235a56 14px 24px)}.b4{right:13%;top:19%;background:repeating-linear-gradient(90deg,#634153 0 14px,#744b62 14px 24px)}.grid{display:grid;grid-template-columns:repeat(3,1fr);gap:14px;margin-top:18px}.band{border-top:3px solid var(--mint);padding:16px;background:rgba(13,32,53,.94);min-height:132px}.band:nth-child(2){border-color:var(--lime)}.band:nth-child(3){border-color:var(--coral)}.buildings{display:grid;grid-template-columns:repeat(4,1fr);gap:12px;margin-top:18px}.building-note{padding:14px;border:1px solid #2E5A70;background:#091827;min-height:98px}.metric{display:inline-block;margin:18px 12px 0 0;padding:9px 12px;border:1px solid var(--gold);color:var(--gold)}.review{display:grid;grid-template-columns:repeat(4,1fr);gap:8px;margin-top:20px}.review span{padding:9px;border-left:3px solid var(--lime);background:var(--panel);color:#B9D6D8}.note{margin-top:20px;color:#B9D6D8;line-height:1.7}@media(max-width:760px){h1{font-size:30px}.city{height:300px}.grid,.buildings,.review{grid-template-columns:1fr 1fr}.building{transform:scale(.72);transform-origin:top left}}
-</style><body><main><h1>北京海淀·京张天工星图：未来街道与建筑原型</h1><p class="subtitle">所有街道、建筑、导视与设备均为暂定边界内的概念原型，须经交通、市政、无障碍、消防与建筑专业复核。</p><section class="city"><span class="street s1"></span><span class="street s2"></span><span class="street s3"></span><span class="building b1"></span><span class="building b2"></span><span class="building b3"></span><span class="building b4"></span></section><section class="grid"><article class="band"><h2>天问星轨智行街</h2><p>借循星辨位的想象，将低速接驳、步骑与低眩光导向汇成看得懂的共享街。</p></article><article class="band"><h2>女娲织网共生街</h2><p>借经纬相连的秩序，让树池、长桌、无障碍微出行与安静路口共同服务邻里。</p></article><article class="band"><h2>应龙水镜慢行环</h2><p>借因水成景的智慧，以雨水花园、树荫与水位提示让气候技术可见可感。</p></article></section><section class="buildings"><article class="building-note"><h2>天问云台</h2><p>以层层退台串联研发、模型评测与对公众可读的测试展廊。</p></article><article class="building-note"><h2>女娲织巢</h2><p>以共享庭院连接共居创作、修补工坊与邻里交流。</p></article><article class="building-note"><h2>应龙水庭</h2><p>以架空公共层、雨水庭院和深檐遮阳回应热雨与日常停留。</p></article><article class="building-note"><h2>星图界面</h2><p>以通透街角雨棚整合无障碍接驳、公共服务与可变展陈。</p></article></section><section><span class="metric" data-metric="site_area_sqm" data-value="11412825.386">11,412,825.386 sqm</span><span class="metric" data-metric="building_footprint_area_sqm" data-value="310807.186">310,807.186 sqm</span><span class="metric" data-metric="green_ratio" data-value="0.123423">12.3423%</span><span class="metric" data-metric="public_space_ratio" data-value="0.073281">7.3281%</span></section><section><h2>审阅索引</h2><div class="review"><span>总览地图</span><span>三层范围</span><span>重点区域</span><span>用地分区</span><span>交通慢行</span><span>蓝绿公共空间</span><span>建筑</span><span>更新项目</span><span>AI 场景</span><span>核心指标</span><span>任务覆盖</span><span>自检状态</span><span>来源</span><span>假设</span></div><p class="note">所有街道、建筑、导视与设备均为暂定边界内的概念原型，须经交通、市政、无障碍、消防与建筑专业复核。</p></section></main></body></html>
+</style><body><main><h1>海淀智汇·京张星耀：天工星图未来街道与建筑原型</h1><p class="subtitle">所有街道、建筑、导视与设备均为暂定边界内的概念原型，须经交通、市政、无障碍、消防与建筑专业复核。</p><section class="city"><span class="street s1"></span><span class="street s2"></span><span class="street s3"></span><span class="building b1"></span><span class="building b2"></span><span class="building b3"></span><span class="building b4"></span></section><section class="grid"><article class="band"><h2>天问星轨智行街</h2><p>借循星辨位的想象，将低速接驳、步骑与低眩光导向汇成看得懂的共享街。</p></article><article class="band"><h2>女娲织网共生街</h2><p>借经纬相连的秩序，让树池、长桌、无障碍微出行与安静路口共同服务邻里。</p></article><article class="band"><h2>应龙水镜慢行环</h2><p>借因水成景的智慧，以雨水花园、树荫与水位提示让气候技术可见可感。</p></article></section><section class="buildings"><article class="building-note"><h2>天问云台</h2><p>以层层退台串联研发、模型评测与对公众可读的测试展廊。</p></article><article class="building-note"><h2>女娲织巢</h2><p>以共享庭院连接共居创作、修补工坊与邻里交流。</p></article><article class="building-note"><h2>应龙水庭</h2><p>以架空公共层、雨水庭院和深檐遮阳回应热雨与日常停留。</p></article><article class="building-note"><h2>星图界面</h2><p>以通透街角雨棚整合无障碍接驳、公共服务与可变展陈。</p></article></section><section><span class="metric" data-metric="site_area_sqm" data-value="11412825.386">11,412,825.386 sqm</span><span class="metric" data-metric="building_footprint_area_sqm" data-value="310807.186">310,807.186 sqm</span><span class="metric" data-metric="green_ratio" data-value="0.123423">12.3423%</span><span class="metric" data-metric="public_space_ratio" data-value="0.073281">7.3281%</span></section><section><h2>审阅索引</h2><div class="review"><span>总览地图</span><span>三层范围</span><span>重点区域</span><span>用地分区</span><span>交通慢行</span><span>蓝绿公共空间</span><span>建筑</span><span>更新项目</span><span>AI 场景</span><span>核心指标</span><span>任务覆盖</span><span>自检状态</span><span>来源</span><span>假设</span></div><p class="note">所有街道、建筑、导视与设备均为暂定边界内的概念原型，须经交通、市政、无障碍、消防与建筑专业复核。</p></section></main></body></html>

diff --git a/submissions/lixb123/jingzhang-ai-nexus/proposal.md b/submissions/lixb123/jingzhang-ai-nexus/proposal.md
@@ -1,5 +1,5 @@
 ---
-title: "北京海淀·京张天工星图：未来 AI 城市客厅"
+title: "海淀智汇·京张星耀：天工星图 AI 城市客厅"
 author_github: "lixb123"
 language: "zh"
 proposal_format_version: "2"
@@ -12,7 +12,7 @@ scenarios: ["ai-traffic-walkability"]
 iteration: "v1.0"
 ---
 
-# 北京海淀·京张天工星图：未来 AI 城市客厅
+# 海淀智汇·京张星耀：天工星图 AI 城市客厅
 
 ## 设计依据与资料清单
 
@@ -30,7 +30,7 @@ iteration: "v1.0"
 
 ## 统筹研究范围产业与未来城市研究
 
-“北京海淀·京张天工星图 / Haidian Beijing: Jing-Zhang Tiangong Star Atlas”以海淀的科创教育、开放研究和城市生活为当代底色，把中国传统的空间智慧转译为一座容易阅读、容易参与的未来 AI 城市客厅：古人**仰观天象**以辨方向，今天的**天问知识廊**便以可解释导览、京张记忆和开放研究帮助人们读懂城市；织机以经纬成布，今天的**女娲织网廊**便以公共长桌、可信数据和人工复核把居民、研究者与服务人员连接起来；治水讲求顺势蓄泄，今天的**应龙水脉廊**便以雨洪花园、微气候提示和慢行空间回应日常风雨。三廊连接众智园研发加速、AI 原点社区协作孵化和大钟寺产业体验三芯。神话名称只作为当代设计的文化隐喻，不代表宗教表达、历史事实重构或已批准项目；星图坐标、织网节点和水脉轨迹可成为导视、活动与数字界面的共同语言。[source:AGENT-TASKBOOK]
+“海淀智汇·京张星耀：天工星图 AI 城市客厅 / Haidian Minds Converge · Jing-Zhang Stars Aglow: Tiangong Star Atlas AI Civic Living Room”以海淀的科创教育、开放研究和城市生活为当代底色，把中国传统的空间智慧转译为一座容易阅读、容易参与的未来 AI 城市客厅：古人**仰观天象**以辨方向，今天的**天问知识廊**便以可解释导览、京张记忆和开放研究帮助人们读懂城市；织机以经纬成布，今天的**女娲织网廊**便以公共长桌、可信数据和人工复核把居民、研究者与服务人员连接起来；治水讲求顺势蓄泄，今天的**应龙水脉廊**便以雨洪花园、微气候提示和慢行空间回应日常风雨。三廊连接众智园研发加速、AI 原点社区协作孵化和大钟寺产业体验三芯。神话名称只作为当代设计的文化隐喻，不代表宗教表达、历史事实重构或已批准项目；星图坐标、织网节点和水脉轨迹可成为导视、活动与数字界面的共同语言。[source:AGENT-TASKBOOK]
 
 全球案例采用可迁移机制而非项目复制：MIT Kendall Square 的产学界面、Station F 的创业服务、加拿大 Vector Institute 的开放研究网络、英国 Alan Turing Institute 的跨学科协作、Barcelona Supercomputing Center 的公共科学传播、首尔数字媒体城的场景集成。可转化的共同原则是：步行可达的共享空间、可预约的试验接口、公共可理解的展示和有人工复核的数据治理。
 

diff --git a/submissions/lixb123/jingzhang-ai-nexus/proposal.en.md b/submissions/lixb123/jingzhang-ai-nexus/proposal.en.md
@@ -1,5 +1,5 @@
 ---
-title: "Haidian Beijing: Jing-Zhang Tiangong Star Atlas"
+title: "Haidian Minds Converge · Jing-Zhang Stars Aglow: Tiangong Star Atlas AI Civic Living Room"
 author_github: "lixb123"
 language: "en"
 proposal_format_version: "2"
@@ -10,7 +10,7 @@ summary: "Rooted in Beijing Haidian's culture of innovation and research, tradit
 iteration: "v1.0"
 ---
 
-# Haidian Beijing: Jing-Zhang Tiangong Star Atlas
+# Haidian Minds Converge · Jing-Zhang Stars Aglow: Tiangong Star Atlas AI Civic Living Room
 
 ## Design Basis and Evidence
 
@@ -26,7 +26,7 @@ The 43.6 km2 research scope frames regional innovation; the approximately 11.4 k
 
 ## Innovation and Future City Strategy
 
-“Haidian Beijing: Jing-Zhang Tiangong Star Atlas” draws on Haidian's culture of innovation, research, and everyday urban life to translate familiar Chinese spatial wisdom into a future AI civic living room that is easy to read and join. Reading the stars becomes the Tianwen Knowledge Corridor, where explainable wayfinding, Jing-Zhang memory, and open research help people orient themselves. Weaving warp and weft becomes the Nuwa Weaving Corridor, where civic tables, trustworthy data, and human review connect residents, researchers, and service staff. Living with water becomes the Yinglong Water-Vein Corridor, where rain gardens, microclimate notices, and slow mobility respond to daily weather. Together they connect the Zhongzhiyuan acceleration, AI Origin collaboration, and Dazhongsi industry-experience cores. These names are contemporary cultural metaphors, not religious claims, historical reconstruction, or approved projects. [source:AGENT-TASKBOOK]
+“Haidian Minds Converge · Jing-Zhang Stars Aglow: Tiangong Star Atlas AI Civic Living Room” draws on Haidian's culture of innovation, research, and everyday urban life to translate familiar Chinese spatial wisdom into a future AI civic living room that is easy to read and join. Reading the stars becomes the Tianwen Knowledge Corridor, where explainable wayfinding, Jing-Zhang memory, and open research help people orient themselves. Weaving warp and weft becomes the Nuwa Weaving Corridor, where civic tables, trustworthy data, and human review connect residents, researchers, and service staff. Living with water becomes the Yinglong Water-Vein Corridor, where rain gardens, microclimate notices, and slow mobility respond to daily weather. Together they connect the Zhongzhiyuan acceleration, AI Origin collaboration, and Dazhongsi industry-experience cores. These names are contemporary cultural metaphors, not religious claims, historical reconstruction, or approved projects. [source:AGENT-TASKBOOK]
 
 ## Overall Urban Design
 
